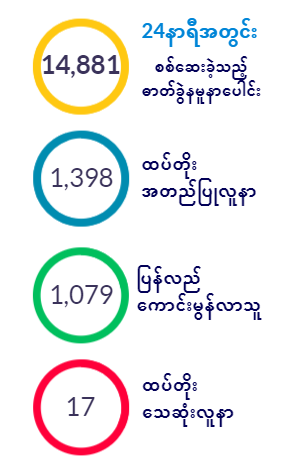
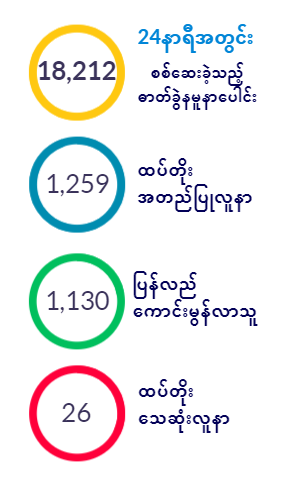
fifth commit

diff --git a/index.html b/index.html
@@ -13,7 +13,7 @@
 <link rel="stylesheet" href="https://cdnjs.cloudflare.com/ajax/libs/font-awesome/4.7.0/css/font-awesome.min.css">
 
 <meta property="og:image" content="https://covid-19infoweb.netlify.app/images1/icon1.png" />
-<meta property="og:description" content="Nov 22, 8:00 PM" />
+<meta property="og:description" content="Nov 23, 8:00 PM" />
 <meta property="og:title" content="Covid-19 Info in Myanmar" />
 <meta property="og:url" content="https://covid-19infoweb.netlify.app/" />
 <meta property="og:type"          content="informative website" />
@@ -189,7 +189,7 @@ src: url('https://cdn.rawgit.com/LeonarAung/MyanmarFont/6cf1262f/mon3.woff') for
             <div class="col-md-12 col-sm-12">
               <hr style="margin-bottom: 10px;"color="orange">
  <marquee bgcolor="orange"> 
-  <div class="running" style="font-size: 22px;color: #fff;font-family: sans-serif;">Last Updated on 22th Nov 8PM:<q>Myanmar currently has +14,881 lab tests, +1,398 confirmed cases, +1,079 recovered cases, and +17 deaths.</q><div>
+  <div class="running" style="font-size: 22px;color: #fff;font-family: sans-serif;">Last Updated on 23th Nov 8PM:<q>Myanmar currently has +18,212 lab tests, +1,259 confirmed cases, +1,130 recovered cases, and +26 deaths.</q><div>
     </marquee>
  <hr style=" margin-top: 4px;" color="orange">
             </div>
@@ -210,7 +210,7 @@ src: url('https://cdn.rawgit.com/LeonarAung/MyanmarFont/6cf1262f/mon3.woff') for
   <div class="card-body">
     <h5 class="card-title">Total Lab Tests</h5>
     <p class="card-text" style="font-size: 18px;
-    font-weight: bold; color: #ffffff;">1,019,238</p>
+    font-weight: bold; color: #ffffff;">1,037,450</p>
   </div>
 </div>
 </div>
@@ -219,7 +219,7 @@ src: url('https://cdn.rawgit.com/LeonarAung/MyanmarFont/6cf1262f/mon3.woff') for
   <div class="card-body">
     <h5 class="card-title">Confirmed Cases</h5>
     <p class="card-text" style="font-size: 18px;
-    font-weight: bold; color: #ffffff;">79,246</p>
+    font-weight: bold; color: #ffffff;">80,505</p>
   </div>
 </div>
   </div>
@@ -228,7 +228,7 @@ src: url('https://cdn.rawgit.com/LeonarAung/MyanmarFont/6cf1262f/mon3.woff') for
   <div class="card-body">
     <h5 class="card-title">Recovered Cases</h5>
     <p class="card-text" style="font-size: 18px;
-    font-weight: bold; color: #ffffff;">58,758</p>
+    font-weight: bold; color: #ffffff;">59,888</p>
   </div>
 </div>
 </div>
@@ -238,7 +238,7 @@ src: url('https://cdn.rawgit.com/LeonarAung/MyanmarFont/6cf1262f/mon3.woff') for
   <div class="card-body">
     <h5 class="card-title">Death Toll</h5>
     <p class="card-text" style="font-size: 18px;
-    font-weight: bold; color: #ffffff;">1,739</p>
+    font-weight: bold; color: #ffffff;">1,765</p>
   </div>
 </div>
  </div>
@@ -292,66 +292,66 @@ src: url('https://cdn.rawgit.com/LeonarAung/MyanmarFont/6cf1262f/mon3.woff') for
     <tr>
       <td>1.</td>
       <td>Yangon</td>
-      <td>58,787</td>
+      <td>59,645</td>
     </tr>
       <td>2.</td>
       <td>Bago</td>
-      <td>4,247</td>
+      <td>4,425</td>
     </tr>
     <tr>
       <td>3.</td>
       <td>Mandalay</td>
-      <td>4,202</td>
+      <td>4,398</td>
     </tr>
     <tr>
       <td>4.</td>
       <td>Rakhine</td>
-      <td>3,442</td>
+      <td>3,483</td>
     </tr>
     <tr>
       <td>5.</td>
       <td>Ayeyarwaddy</td>
-      <td>2,378</td>
+      <td>2,452</td>
     </tr>
     <tr>
       <td>6.</td>
       <td>Magaway</td>
-      <td>1,278</td>
+      <td>1,283</td>
     </tr>
     <tr>
       <td>7.</td>
       <td>Mon</td>
-      <td>1,049</td>
+      <td>1,059</td>
     </tr>
     <tr>
       <td>8.</td>
       <td>Sagaing</td>
-      <td>703</td>
+      <td>710</td>
     </tr>
     <tr>
       <td>9.</td>
       <td>Kayin</td>
-      <td>532</td>
+      <td>543</td>
     </tr>
     <tr>
       <td>10.</td>
       <td>Naypyidaw</td>
-      <td>363</td>
+      <td>365</td>
     </tr>
      <tr>
       <td>11.</td>
       <td>Thanintharyi</td>
-      <td>344</td>
+      <td>350</td>
     </tr>
     <tr>
       <td>13.</td>
       <td>Shan</td>
-      <td>257</td>
+      <td>262</td>
     </tr>
      <tr>
       <td>12.</td>
       <td>Kachin</td>
-      <td>162</td>
+      <td>167</td>
     </tr>
     <tr>
       <td>14.</td>
@@ -401,67 +401,67 @@ src: url('https://cdn.rawgit.com/LeonarAung/MyanmarFont/6cf1262f/mon3.woff') for
       <tr>
       <td>1.</td>
       <td>North Okkalar</td>
-      <td>4,141</td>
+      <td>4,163</td>
     </tr>
     <tr>
       <td>2.</td>
       <td>Mingalardon</td>
-      <td>3,891</td>
+      <td>3,971</td>
     </tr>
     <tr>
       <td>3.</td>
       <td>Hlaing Thar Yar</td>
-      <td>3,641</td>
+      <td>3,661</td>
     </tr>
     <tr>
       <td>4.</td>
       <td>Insein</td>
-      <td>3,232</td>
+      <td>3,252</td>
     </tr>
     <tr>
       <td>5.</td>
       <td>Thingangyun</td>
-      <td>3,154</td>
+      <td>3,189</td>
     </tr>
     <tr>
       <td>6.</td>
       <td>Mayangone</td>
-      <td>2,509</td>
+      <td>2,525</td>
     </tr>
       <tr>
       <td>7.</td>
       <td>ShwePyiThar</td>
-      <td>2,300</td>
+      <td>2,360</td>
     </tr>
     <tr>
       <td>8.</td>
       <td>Hlaing</td>
-      <td>2,170</td>
+      <td>2,233</td>
     </tr>
     <tr>
       <td>9.</td>
       <td>Thanlyin</td>
-      <td>2,117</td>
+      <td>2,123</td>
     </tr>
     <tr>
     <td>10.</td>
       <td>Tamwe</td>
-      <td>2,093</td>
+      <td>2,114</td>
     </tr>
     <tr>
       <td>11.</td>
       <td>South Okkalar</td>
-      <td>2,038</td>
+      <td>2,087</td>
     </tr>
     <tr>
       <td>12.</td>
       <td>Dagon(South)</td>
-      <td>1,762</td>
+      <td>1,826</td>
     </tr>
     <tr>
       <td>13.</td>
       <td>Kamayut</td>
-      <td>1,747</td>
+      <td>1,754</td>
     </tr>
     <tr>
       <td>14.</td>
@@ -471,7 +471,7 @@ src: url('https://cdn.rawgit.com/LeonarAung/MyanmarFont/6cf1262f/mon3.woff') for
     <tr>
     <td>15.</td>
       <td>Tharketa</td>
-      <td>1,669</td>
+      <td>1,699</td>
     </tr>
     
     
@@ -622,14 +622,14 @@ src: url('https://cdn.rawgit.com/LeonarAung/MyanmarFont/6cf1262f/mon3.woff') for
     text: 'Covid-19 Tests per Day'
   },
   xAxis: {
-    categories: ['Nov 10', 'Nov 11','Nov 12','Nov 13','Nov 14','Nov 15','Nov 16','Nov 17','Nov 18','Nov 19','Nov 20','Nov 21', 'Nov 22']
+    categories: ['Nov 10', 'Nov 11','Nov 12','Nov 13','Nov 14','Nov 15','Nov 16','Nov 17','Nov 18','Nov 19','Nov 20','Nov 21', 'Nov 22', 'Nov 23']
   },
   credits: {
     enabled: false
   },
   series: [{
     name: 'Tests per day',
-    data: [17000,15534,17250,15281,14777,13347,21232,17954,16999,18090,14881],
+    data: [17000,15534,17250,15281,14777,13347,21232,17954,16999,18090,14881,18212],
     color: "black"
   }]
 });
@@ -700,22 +700,22 @@ src: url('https://cdn.rawgit.com/LeonarAung/MyanmarFont/6cf1262f/mon3.woff') for
     text: 'Covid-19 Cases per Day'
   },
   xAxis: {
-    categories: ['Nov 10', 'Nov 11','Nov 12','Nov 13','Nov 14','Nov 15','Nov 16','Nov 17','Nov 18','Nov 19','Nov 20','Nov 21', 'Nov 22']
+    categories: ['Nov 10', 'Nov 11','Nov 12','Nov 13','Nov 14','Nov 15','Nov 16','Nov 17','Nov 18','Nov 19','Nov 20','Nov 21', 'Nov 22', 'Nov 23']
   },
   credits: {
     enabled: false
   },
   series: [{
     name: 'Confirmed Cases',
-    data: [1266,1212,1145,1136,1277,983,1592,1560,1532,1434,1398]
+    data: [1266,1212,1145,1136,1277,983,1592,1560,1532,1434,1398,1259]
   }, {
     name: 'Recovered Cases',
-    data: [750,1121,1031,773,1026,989,490,869,968,1078,1079],
+    data: [750,1121,1031,773,1026,989,490,869,968,1078,1079,1130],
     color: "#66a832"
 
   }, {
     name: 'Death Toll',
-    data: [24,19,28,26,18,25,25,26,19,27,17],
+    data: [24,19,28,26,18,25,25,26,19,27,17,26],
     color: "red"
   }]
 });

diff --git a/InfoPage.html b/InfoPage.html
@@ -13,7 +13,7 @@
 <link rel="stylesheet" href="https://cdnjs.cloudflare.com/ajax/libs/font-awesome/4.7.0/css/font-awesome.min.css">
 
 <meta property="og:image" content="https://covid-19infoweb.netlify.app/images1/icon1.png"/>
-<meta property="og:description" style="font-family:Unicode;" content="နို၀င်ဘာ ၂၂ ရက်၊ ည ၈:၀၀" />
+<meta property="og:description" style="font-family:Unicode;" content="နို၀င်ဘာ ၂၃ ရက်၊ ည ၈:၀၀" />
 <meta property="og:title" style="font-family:Unicode;" content="မြန်မာနိုင်ငံတွင်ကိုဗစ်ဖြစ်ပွားနေမှုအခြေအနေ" />
 <meta property="og:url" content="https://covid-19infoweb.netlify.app/" />
 <meta property="og:type"          content="informative website" />
@@ -195,7 +195,7 @@ nav.navbar.shrink{
             <div class="col-md-12 col-sm-12">
               <hr style="margin-bottom: 10px;"color="#3F51B5">
  <marquee bgcolor="#3F51B5"> 
-  <div class="running" style='font-family:Unicode;font-size: 20px; color: #FFFFFF; font-weight: 600px'> ကျန်းမာရေးနှင့်အားကစားဝန်ကြီးဌာန၏ နို၀င်ဘာ ၂၂ ရက်၊ ည ၈:၀၀ တွင် ထုတ်ပြန်သောသတင်းအရ မြန်မာနိုင်ငံတွင် စစ်ဆေးပြီးသည့်ဓာတ်ခွဲနမူနာစုစုပေါင်း ၁,၀၁၉,၂၃၈ ဦး၊ ဓာတ်ခွဲအတည်ပြုလူနာစုစုပေါင်း ၇၉,၂၄၆ ဦး၊ ပြန်လည်ကောင်းမွန်လာသူစုစုပေါင်း ၅၈,၇၅၈ ဦး၊ နှင့် သေဆုံးလူနာစုစုပေါင်း ၁,၇၃၉ ဦး ရှိပါသည်။ ။<div>
+  <div class="running" style='font-family:Unicode;font-size: 20px; color: #FFFFFF; font-weight: 600px'> ကျန်းမာရေးနှင့်အားကစားဝန်ကြီးဌာန၏ နို၀င်ဘာ ၂၃ ရက်၊ ည ၈:၀၀ တွင် ထုတ်ပြန်သောသတင်းအရ မြန်မာနိုင်ငံတွင် စစ်ဆေးပြီးသည့်ဓာတ်ခွဲနမူနာစုစုပေါင်း ၁,၀၃၇,၄၅၀ ဦး၊ ဓာတ်ခွဲအတည်ပြုလူနာစုစုပေါင်း ၈၀,၅၀၅ ဦး၊ ပြန်လည်ကောင်းမွန်လာသူစုစုပေါင်း ၅၉,၈၈၈ ဦး၊ နှင့် သေဆုံးလူနာစုစုပေါင်း ၁,၇၆၅ ဦး ရှိပါသည်။ ။<div>
     </marquee>
  <hr style=" margin-top: 4px;" color="#3F51B5">
             </div>
